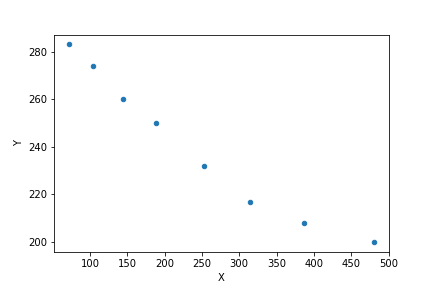
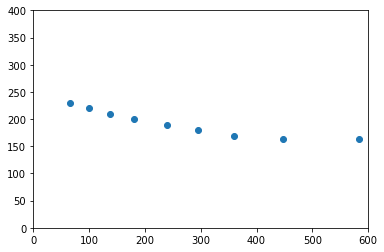
snt page css et pc1 maj tp chrono

diff --git a/content/docs/SNT_2nde/SNT_internet.html b/content/docs/SNT_2nde/SNT_internet.html
@@ -29,6 +29,17 @@ Title : internet
 <section class="main">
   <div class="main-inside left">
     
+    <input type="button" class="btn btn-lg" value="Le CSS: introduction" onclick="window.location.href = '/docs/SNT_2nde/pages/page4/web5/'">
+    </div>  
+    <div class="main-inside right">
+      <input type="button" class="btn btn-lg" value="animation P5.js" onclick="window.location.href = '/docs/SNT_2nde/pages/page4/web3/'">
+      
+  </div>
+</section>
+
+<section class="main">
+  <div class="main-inside left">
+    
     <input type="button" class="btn btn-lg" value="TP Créer sa page Web" onclick="window.location.href = '/docs/SNT_2nde/pages/page4/web2/'">
     </div>  
     <div class="main-inside right">

diff --git a/content/docs/SNT_2nde/pages/page4/web5.md b/content/docs/SNT_2nde/pages/page4/web5.md
@@ -1,0 +1,162 @@
+---
+Title: introduction à CSS
+---
+
+
+# Bases en css
+les fondamentaux du css: cascade et héritage: [MDN](https://developer.mozilla.org/fr/docs/Learn/CSS/Building_blocks/Cascade_and_inheritance)
+
+Les sigles « CSS » sont l’abréviation de « Cascading StyleSheets » ou « feuilles de styles en cascade » en français.
+
+Le CSS vient résoudre un problème bien différent du HTML : en effet, le HTML sert à définir le *contenu et la structure* d’une page, à leur donner du sens. 
+
+Le CSS, lui, va servir à mettre en forme les différents contenus définis par le HTML en leur appliquant des styles.
+
+Si votre navigateur affiche par défaut les contenus textuels que vous avez déclaré comme des titres en HTML en grand et en gras et à l’inverse les paragraphes en plus petit c’est justement parce que chaque navigateur possède sa propre feuille de styles. En fournissant nos styles CSS pour les différents contenus de notre page, nous allons donc pouvoir définir l’apparence de ceux-ci puisque les styles que nous allons fournir vont être considérés comme prioritaires par rapport à ceux du navigateur. C'est le principe du style en cascade (CSS)
+
+## Une déclaration CSS
+Une règle typique est composée de trois parties :
+
+- un **sélecteur**,
+- une **propriété**,
+- une **valeur**
+
+
+
+<div style="text-align:center; font-weight: bold;">selecteur { propriete: valeur; }</div>
+
+La **valeur** de la propriété se met après le séparateur `:`.
+
+Ces règles deviennent des *déclarations* lorsque celles-ci comprennent plusieurs couples propriété-valeur :Les règles sont alors séparées par un point-virgule `;`, dans la même accolade:
+
+```css
+selecteur {
+  propriete 1: valeur;
+  propriete 2: valeur;
+}
+```
+*Exemple:*
+
+<figure>
+  <div>
+    <img src="../images/css.png">
+    <figcaption>règles CSS associées à tous les éléments p de la page: caractères mis en gras (font-weight: bold) et entourés d'une bordure rouge (border: 2px solid red)</figcaption>
+  </div>
+</figure>
+
+
+Le selecteur fait référence à un ou plusieurs éléments du document.
+
+## Selecteurs
+Pour pouvoir appliquer un style à un contenu, il va déjà falloir le cibler, c’est-à-dire trouver un moyen d’indiquer qu’on souhaite appliquer tel style à un contenu en particulier.
+
+En classe de SNT, le sélecteur, c'est l'élement HTML que l'on veut cibler.
+
+## Où met-on les déclarations CSS?
+L'élément `<style>` peut être inclus dans l'élément `<head>` ou dans l'élément `<body>` du document et les styles seront appliqués. Toutefois, il est recommandé de placer les styles dans l'élément `<head>` afin de clairement séparer la présentation du contenu autant que possible. 
+
+*Exemple:*
+
+```HTML
+<head>
+  <style>
+    p {
+        color: #26b72b;
+      }
+  </style>
+</head>
+
+<body>
+  <p>Le texte suivant sera affiché en VERT, qui est codée en hexadécimal avec #26b72b.</p>
+</body>
+``` 
+Le rendu dans le navigateur est alors:
+
+<div style="width:50%; border:solid;">
+ <p style ="color:#26b72b; ">Le texte suivant sera affiché en VERT, qui est codée en hexadécimal avec #26b72b.</p></div>
+
+La méthode idéale consiste toutefois à utiliser des feuilles de style dans des fichiers externes et de les appliquer au document grâce à des éléments `<link>`.
+
+
+# Règles principales
+## Règles appliquées aux textes
+Tutoriel complet: [developer.mozilla.org](https://developer.mozilla.org/fr/docs/Learn/CSS/Styling_text/Fundamentals)
+
+Quelques propriétés CSS relatives aux textes
+
+
+| paramètre | valeurs possibles | effet |
+|--- |--- |--- |
+| color | blue, yellow, red, ... | colorie le texte selon le nom *anglais* de la couleur |
+| color | rgb(0..255, 0..255, 0..255) | selon le code RGB sur un octet chacun |
+| color | #0..F0..F0..F | selon le code RGB exprimé en hexadecimal, sans separateur |
+| background-color | idem color | couleur de fond |
+| font-family | arial, courier new... | choix de la police de caractères |
+| font | italic 12 pt sans-serif | informations complémentaires pour la police |
+| text-align | center, left, right, justify | alignement du texte |
+| font-weight | bold | mettre en gras |
+
+## Règles relatives aux listes
+
+Voici un exemple de page qui liste les différentes missions de la NASA:
+
+```HTML
+<head>
+  <style>
+
+  </style>
+</head>
+
+<body>
+  <h2>NASA Notable Missions</h2>
+  <ul>
+    <li>Apollo</li>
+    <li>Hubble</li>
+    <li>Chandra</li>
+  </ul>
+</body>
+```
+
+<div style="width:70%; border:solid;">
+<h2>NASA Notable Missions</h2>
+<ul>
+    <li>Apollo</li>
+    <li>Hubble</li>
+    <li>Chandra</li>
+  </ul>
+</div>
+
+On peut ajouter une déclaration CSS dans le début du fichier. Par exemple pour enlever les marqueurs de liste de la manière suivante:
+
+```HTML
+<head>
+  <style>
+    li {list-style: none;}
+  </style>
+</head>
+```
+
+<div style="width:70%; border:solid;">
+<h2>NASA Notable Missions</h2>
+<ul>
+    <li style="list-style: none;">Apollo</li>
+    <li style="list-style: none;">Hubble</li>
+    <li style="list-style: none;">Chandra</li>
+  </ul>
+</div>
+
+*Résumé*
+
+| paramètre | exemples de valeurs possibles | effet |
+|--- |--- |--- |
+| list-style | square | <img src="../images/listes1.png"> |
+| list-style | none | <img src="../images/listes2.png"> |
+
+[Tutoriel sur les listes: developer.mozilla.org](https://developer.mozilla.org/fr/docs/Web/CSS/list-style)
+
+# Liens
+<ul>
+<li><a href="../web1">SNT le langage HTML</a></li>
+<li><a href="../web2">SNT TP 1: HTML et CSS</a></li>
+<li><a href="../web3">SNT TP 2: Javascript</a></li>
+</ul>

diff --git a/content/docs/SNT_2nde/pages/page4/web2.md b/content/docs/SNT_2nde/pages/page4/web2.md
@@ -55,6 +55,7 @@ Ce sont la plupart du temps des balises de type `<balise>argument</balise>`
 | div (container) | `<div><p>Contenu</p><p>autre contenu</p></div>` | <p>Contenu</p><p>autre contenu</p> |
 | a (lien) | `<a href="https://www.anti-moustique.net/raquette-moustique/">le meilleur antimoustique au monde</a>` | <a href="">le meilleur antimoustique au monde</a> |
 | img (image) | `<img src="https://i.postimg.cc/MHjjW4wg/moustique.png">` | <div><img src="../images/moustique.png" style="width:50px"></div> |
+| ul li | <div><img src="../images/listes3.png" style="height:100px"></div> |  <div><img src="../images/listes4.png" style="width:70px"></div> |
 
 <br>
 > Testez chacun des **exemples d'instruction en html** dans la page de <a href="https://htmledit.squarefree.com/" target="blank">squarefree.com</a>.
@@ -300,6 +301,7 @@ Celle-ci pourrait, par exemple, porter sur un sujet lié à l'exploration d'un a
 
 # Liens et compléments
 <ul>
+<li><a href="../web5">Compléments sur CSS</a></li>
 <li><a href="../web3">SNT TP 2: Javascript</a></li>
 <li><a href="../web1">Retour: le langage HTML</a></li>
 </ul>  

diff --git a/content/docs/PC_1ere/meca/page1.md b/content/docs/PC_1ere/meca/page1.md
@@ -139,7 +139,8 @@ print(data.Y)
 * Pour afficher le tracé (X,Y), on ajoute le module `matplotlib` et on écrit:
 
 ```python
-data.plot.scatter(x='X', y='Y')
+plt.axis([0, 600, 0, 400])  # choix des echelles
+plt.scatter(data.X,data.Y)
 plt.show()
 ```
 
@@ -151,7 +152,7 @@ plt.show()
 On remarque que la coordonnée Y est repérée à partir du bord inférieur de la fenêtre graphique. Alors que pour le pointage, c'était à partir du bord supérieur. On peut modifier les valeurs de TOUTE la colonne Y en faisant par exemple:
 
 ```python
-data.Y = 300 - data.Y
+data.Y = 400 - data.Y
 ```
 
 Le graphique généré est alors le suivant:
@@ -167,8 +168,9 @@ Le graphique généré est alors le suivant:
 import pandas as pd  
 import matplotlib.pyplot as plt
 data = pd.read_csv("coordonnees.txt")
-data.Y = 300 - data.Y
-data.plot.scatter(x='X', y='Y')
+data.Y = 400 - data.Y
+plt.axis([0, 600, 0, 400])
+plt.scatter(data.X,data.Y)
 plt.savefig('output.png')
 ```
 

diff --git a/content/docs/NSI/CSS/page1.md b/content/docs/NSI/CSS/page1.md
@@ -10,7 +10,7 @@ Le CSS vient résoudre un problème bien différent du HTML : en effet, le HTML 
 
 Si votre navigateur affiche par défaut les contenus textuels que vous avez déclaré comme des titres en HTML en grand et en gras et à l’inverse les paragraphes en plus petit c’est justement parce que chaque navigateur possède sa propre feuille de styles. En fournissant nos styles CSS pour les différents contenus de notre page, nous allons donc pouvoir définir l’apparence de ceux-ci puisque les styles que nous allons fournir vont être considérés comme prioritaires par rapport à ceux du navigateur. C'est le principe du style en cascade (CSS)
 
-## Une règle CSS
+## Une déclaration en CSS
 Une règle typique est composée de trois parties :
 
 - un **sélecteur**,

diff --git a/content/docs/SNT_2nde/pages/page4/web.md b/content/docs/SNT_2nde/pages/page4/web.md
@@ -190,6 +190,7 @@ D’où l’importance d’un cadre juridique permettant de protéger les usag
 <ul>
 <li><a href="../web1">SNT le langage HTML</a></li>
 <li><a href="../web2">SNT TP 1: HTML et CSS</a></li>
+<li><a href=../web5">Tuto sur CSS</a></li>
 <li><a href="../web3">SNT TP 2: Javascript</a></li>
 </ul>
     

diff --git a/content/docs/SNT_2nde/pages/page4/web1.md b/content/docs/SNT_2nde/pages/page4/web1.md
@@ -109,6 +109,7 @@ Et cela va rediriger sur la page de wikipedia: restauration française de 1814, 
 # Lien vers la suite du TP
 <ul>
 <li><a href="../web2">SNT TP 1: HTML et CSS</a></li>
+<li><a href="../web5">Tuto sur CSS</a></li>
 <li><a href="../web3">SNT TP 2: Javascript</a></li>
 </ul>   
       

diff --git a/content/docs/SNT_2nde/pages/page4/web4.md b/content/docs/SNT_2nde/pages/page4/web4.md
@@ -24,7 +24,8 @@ Vous pouvez vous aider des liens suivants:
 
 <ul>
 <li><a href="../web1">le langage HTML</a></li>
-<li><a href="../web2">TP 1: HTML et CSS</a></li>
+<li><a href="../web2">TP 1: HTML</a></li>
+<li><a href="../web5">Tutoriel sur CSS</a></li>
 </ul>
 
 ... ou d'autres site sur internet.

diff --git a/content/docs/SNT_2nde/pages/page4/web3.md b/content/docs/SNT_2nde/pages/page4/web3.md
@@ -16,4 +16,5 @@ bookShowToc: false
 <ul>
 <li><a href="../web1">SNT le langage HTML</a></li>
 <li><a href="../web2">SNT TP 1: HTML et CSS</a></li>
+<li><a href="../web5">Tuto sur CSS</a></li>
 </ul>
